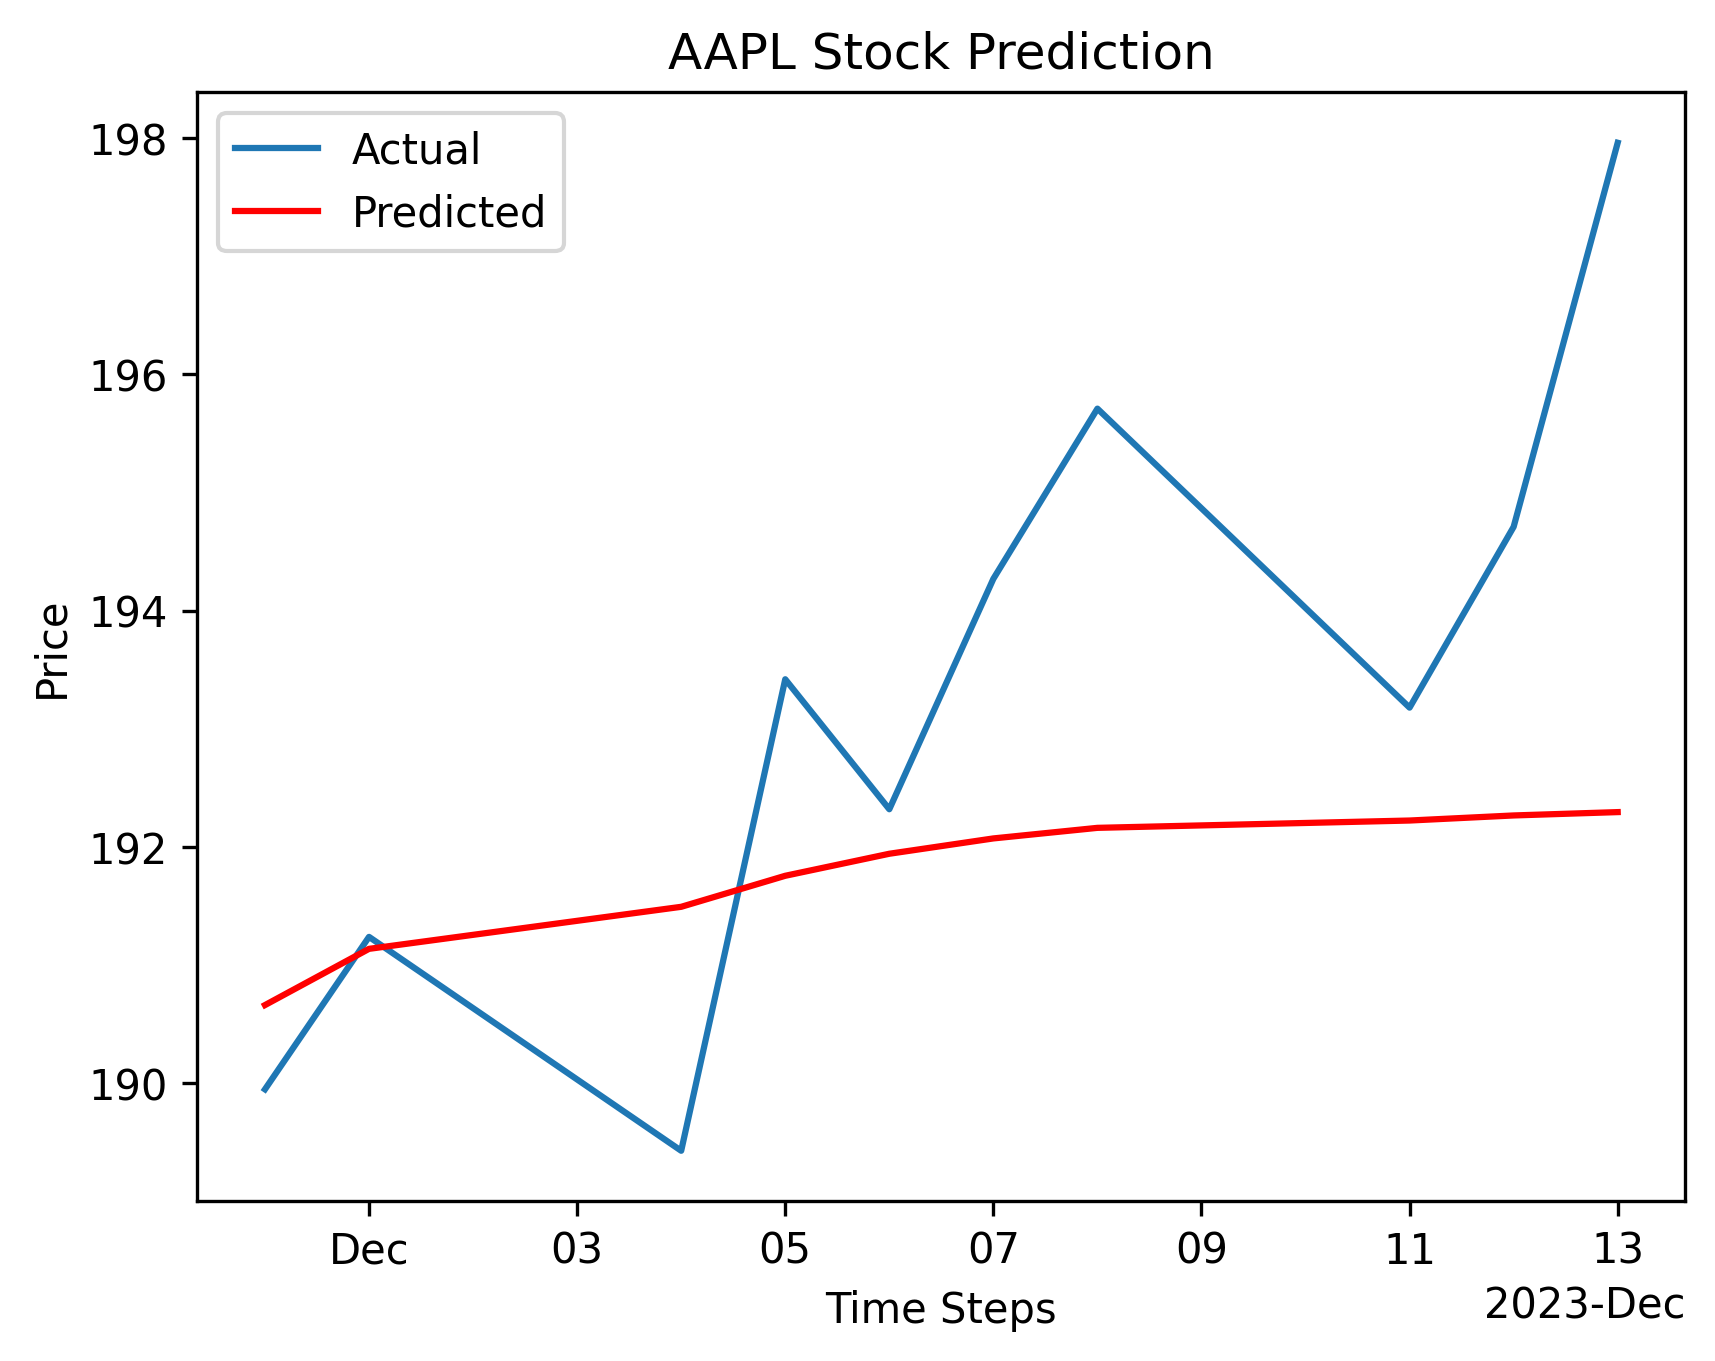
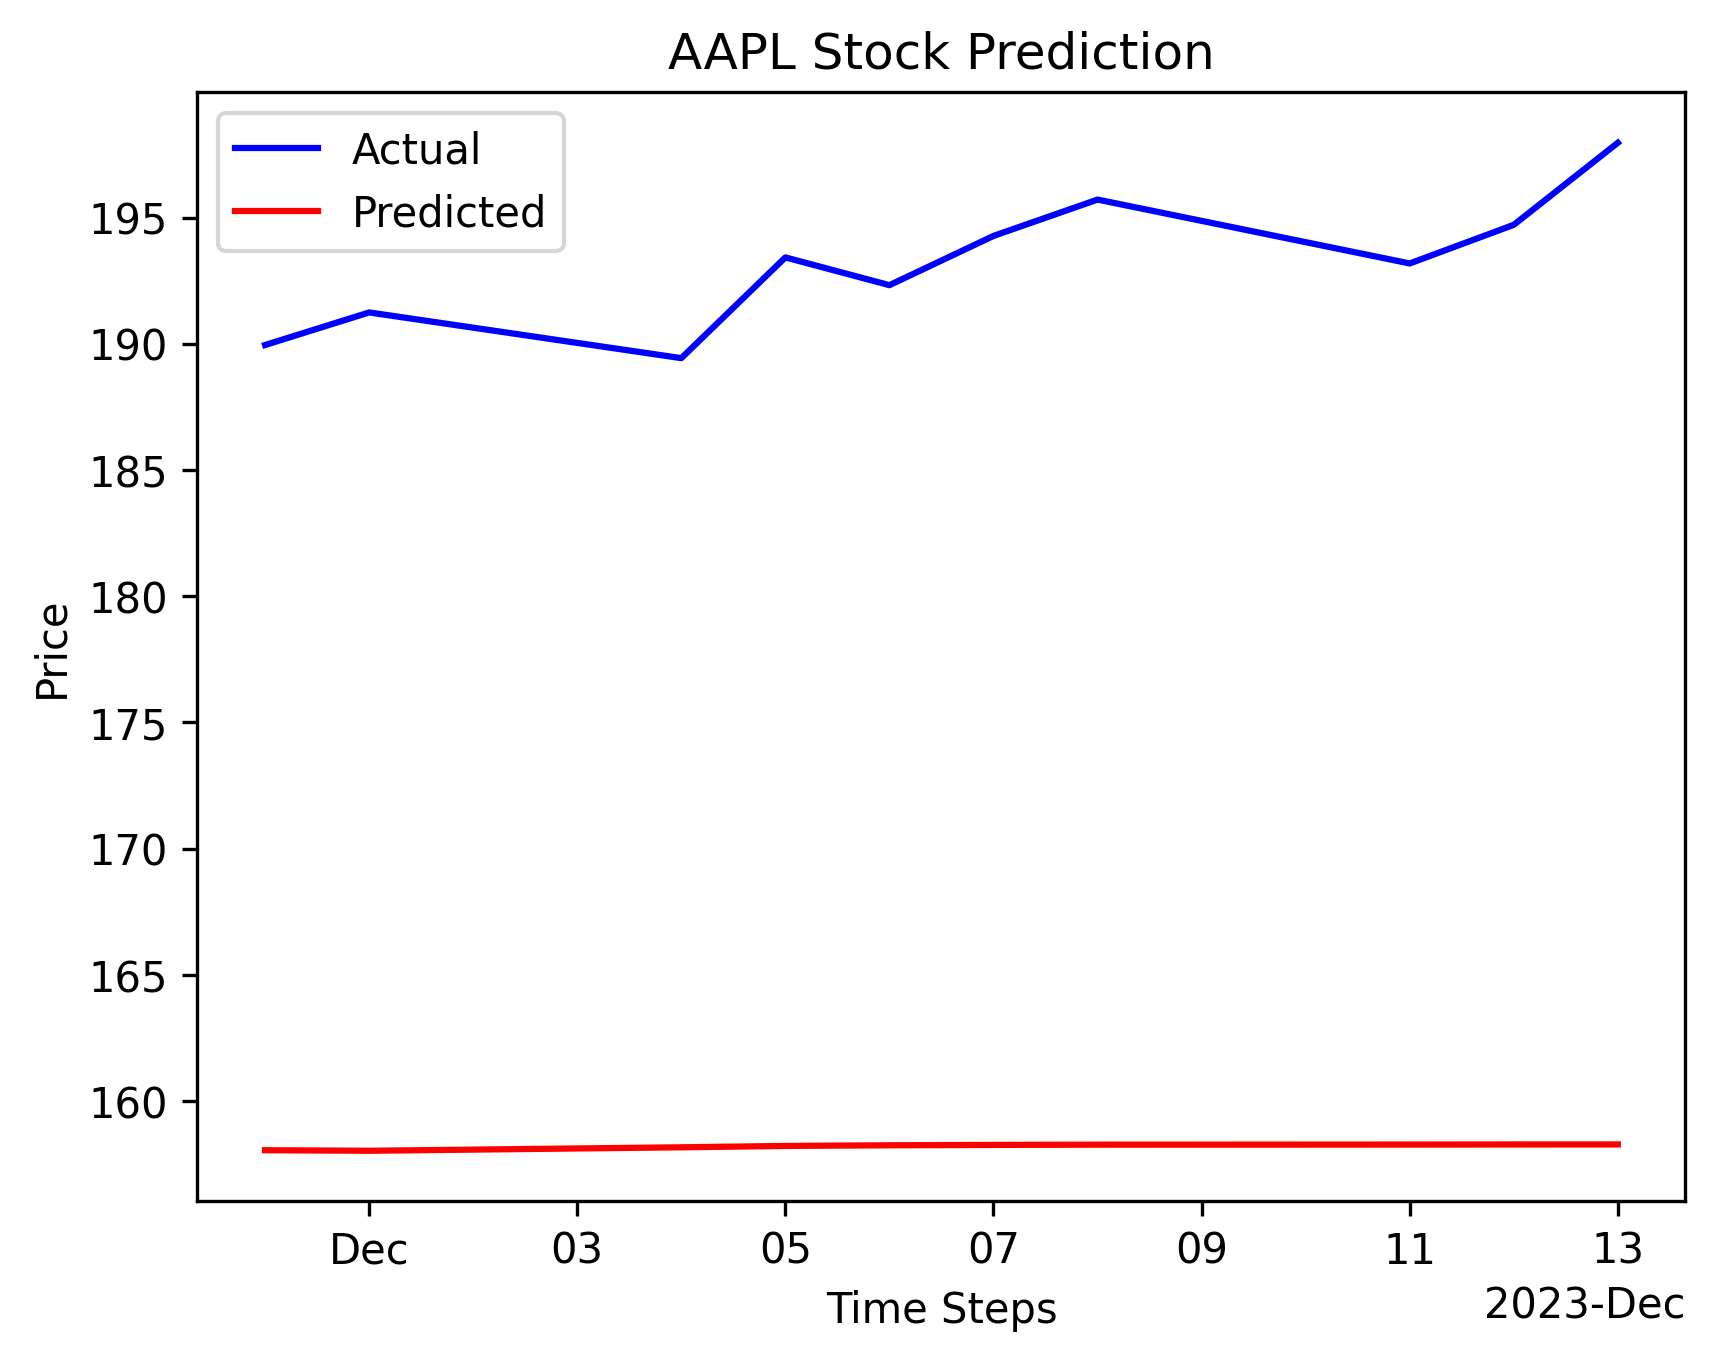
restructered preprocess

diff --git a/src/utils/preprocess.py b/src/utils/preprocess.py
@@ -43,57 +43,50 @@ def load_and_clean_data(file_path, file_path_income):
             row_last[feature] = value
             data[feature][i] = value
 
-    target_sensor = "Close"
-    forecast_lead = 1
-    target = f"{target_sensor}_pred{forecast_lead}"
-
-    data[target] = data[target_sensor].shift(forecast_lead)
-    data[target] = pd.to_numeric(data[target], errors='coerce')
-
-    data.dropna(inplace=True)
-
-    return data, target, features
+    return data, features
 
 
 def split_and_scale_data(data, train_ratio):
     split_index = int(len(data) * train_ratio)
-    df_train = data.loc[:split_index].copy()
-    df_test = data.loc[split_index:].copy()
+    train = data[:split_index].copy()
+    test = data[split_index:].copy()
 
     scaler = MinMaxScaler(feature_range=(-1, 1))
-    np_train = scaler.fit_transform(df_train)
-    np_test = scaler.transform(df_test)
+    train = scaler.fit_transform(train)
+    test = scaler.transform(test)
 
-    return np_train, np_test, scaler
+    return train, test, scaler
 
 
-def reshape_for_lstm(y):
+def create_sequences(data, sequence_length):
+    """Prepare the dataframe for LSTM by creating shifted columns."""
+    xs, ys = [], []
+    for i in range(len(data) - sequence_length):
+        x = data[i:i + sequence_length]
+        y = data[i + sequence_length, 0]
+        xs.append(x)
+        ys.append(y)
+    return np.array(xs), np.array(ys)
+
+
+def reshape_for_lstm(X, y, sequence_length, features):
     """Reshape the data for LSTM."""
+    X = X.reshape((-1, sequence_length, len(features)))
     y = y.reshape((-1, 1))
-    return torch.tensor(y).float()
+    return torch.tensor(X).float(), torch.tensor(y).float()
 
 
-class SequenceDataset(Dataset):
-    def __init__(self, dataframe, target, features, sequence_length):
-        self.features = features
-        self.target = target
-        self.sequence_length = sequence_length
-        self.y = torch.tensor(dataframe[:, 0]).float()
-        self.X = torch.tensor(dataframe[:, 0:len(features)]).float()
+class TimeSeriesDataset(Dataset):
+    """Custom Dataset for Time Series data."""
+    def __init__(self, X, y):
+        self.X = X
+        self.y = y
 
     def __len__(self):
-        return self.X.shape[0]
+        return len(self.X)
 
-    def __getitem__(self, i):
-        if i >= self.sequence_length - 1:
-            i_start = i - self.sequence_length + 1
-            x = self.X[i_start:(i + 1), :]
-        else:
-            padding = self.X[0].repeat(self.sequence_length - i - 1, 1)
-            x = self.X[0:(i + 1), :]
-            x = torch.cat((padding, x), 0)
-
-        return x, self.y[i]
+    def __getitem__(self, idx):
+        return self.X[idx], self.y[idx]
 
 
 def get_loaders(data_path, data_path2):
@@ -101,35 +94,29 @@ def get_loaders(data_path, data_path2):
     batch_size = 16
 
     # Data preparation
-    data, target, features = load_and_clean_data(data_path, data_path2)
-    scaled_train_data, scaled_test_data, scaler = split_and_scale_data(data, 0.7)
+    data, features = load_and_clean_data(data_path, data_path2)
+    train, test, scaler = split_and_scale_data(data, 0.7)
+    X_train, y_train = create_sequences(train, sequence_length)
+    X_test, y_test = create_sequences(test, sequence_length)
 
-    # shifted_df = prepare_dataframe_for_lstm(data, sequence_length)
-    # shifted_df_as_np, scaler = scale_data(shifted_df.to_numpy())
+    # getting back first 10 values
+    X_test = np.append(X_train[-sequence_length:], X_test, axis=0)
+    y_test = np.append(test[:sequence_length, 0], y_test, axis=0)
 
-    # X, y = shifted_df_as_np[:, 1:], shifted_df_as_np[:, 0]
-
-    # X = np.flip(X, axis=1)
-
-    # X_train, X_test, y_train, y_test = split_data(X, y)
-
-    # X_train, y_train = reshape_for_lstm(X_train, y_train, sequence_length)
-    # X_test, y_test = reshape_for_lstm(X_test, y_test, sequence_length)
+    # reshape
+    X_train, y_train = reshape_for_lstm(X_train, y_train, sequence_length, features)
+    X_test, y_test = reshape_for_lstm(X_test, y_test, sequence_length, features)
 
     # Creating datasets and data loaders
-    train_dataset = SequenceDataset(scaled_train_data, target=target, features=features,
-                                    sequence_length=sequence_length)
-    test_dataset = SequenceDataset(scaled_test_data, target=target, features=features, sequence_length=sequence_length)
-
-    train_dataset.y = reshape_for_lstm(train_dataset.y)
-    test_dataset.y = reshape_for_lstm(test_dataset.y)
+    train_dataset = TimeSeriesDataset(X_train, y_train)
+    test_dataset = TimeSeriesDataset(X_test, y_test)
 
     train_loader = DataLoader(train_dataset, batch_size=batch_size, shuffle=True)
     test_loader = DataLoader(test_dataset, batch_size=batch_size, shuffle=False)
 
-    X, y = next(iter(train_loader))
-    print("Features shape:", X.shape)
-    print("Target shape:", y.shape)
+    # X, y = next(iter(test_loader))
+    # print("Features shape:", X.shape)
+    # print("Target shape:", y.shape)
 
     return train_loader, test_loader, batch_size, scaler, sequence_length
 
@@ -137,16 +124,15 @@ def get_loaders(data_path, data_path2):
 def get_last_sequence(data_path, data_path2):
     sequence_length = 10
     # Data preparation
-    data, target, features = load_and_clean_data(data_path, data_path2)
-    scaled_train_data, _, _ = split_and_scale_data(data, 1)
-    train_dataset = SequenceDataset(scaled_train_data, target=target, features=features,
-                                    sequence_length=sequence_length)
-    last_sequence = train_dataset.X[-10:]
+    data, features = load_and_clean_data(data_path, data_path2)
+    train, _, _ = split_and_scale_data(data, 0.7)
+    last_sequence = train[-sequence_length:]
     last_sequence = last_sequence.reshape((-1, sequence_length, len(features)))
+    last_sequence = torch.tensor(last_sequence).float()
     return last_sequence
 
 
-def create_new_sequence(last_sequence, output):
+def update_recurrent_sequence(last_sequence, output):
     updated_sequence = last_sequence[:, 1:, :]
     output = torch.tensor([output]).reshape(-1, 1, 1)
     volume = last_sequence[:, :, 1]

diff --git a/src/utils/main.py b/src/utils/main.py
@@ -21,7 +21,7 @@ from src.models.qrnn import QRNN
 
 
 # Model parameters
-input_size = 1
+input_size = 4
 hidden_size = 1
 n_qubits = 4
 n_qlayers = 2
@@ -36,7 +36,7 @@ model = models[model_name]
 arch = "1"
 
 # Loss function and optimizer and scheduler
-n_epochs = 50
+n_epochs = 1
 loss_function = nn.MSELoss()
 optimizer = optim.Adam(model.parameters(), lr=0.03)
 scheduler = lr_scheduler.LinearLR(optimizer, start_factor=1.0, end_factor=(0.1 * 1 / 3), total_iters=n_epochs,
@@ -58,12 +58,12 @@ if not os.path.exists(results_test_dir):
 
 stocks = ['NVDA', 'DIS', 'KO', 'MO', 'BABA', 'MA', 'V', 'JPM', 'PG', 'TSM', 'META', 'TSLA', 'MSFT', 'AAPL', 'ABBV',
           'PEP', 'CRM', 'PFE', 'NFLX', 'AMD', 'ABT', 'PM', 'BA', 'NKE', 'GS', 'T', 'C', 'MU']
-
+stocks = ['AAPL']
 # Heatmap data
 
 selected_stocks = ['AAPL', 'KO', 'BABA', 'MA', 'PG', 'PFE', 'NKE', 'TSLA', 'T', 'PM']
 selected_stocks_with_result_file = []
-
+selected_stocks = ['AAPL']
 
 def save_model(model, seed, timestamp):
     """Save the trained model"""

diff --git a/src/utils/test.py b/src/utils/test.py
@@ -13,7 +13,7 @@ def test_model_10day(model, last_sequence, scaler, model_path):
         new_sequence = last_sequence
         predictions.append(output)
         for _ in range(9):
-            new_sequence = preprocess.create_new_sequence(new_sequence, output)
+            new_sequence = preprocess.update_recurrent_sequence(new_sequence, output)
             output = model(new_sequence)
             predictions.append(output)
 
